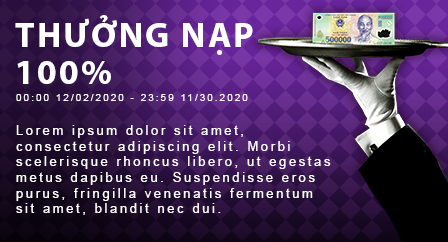
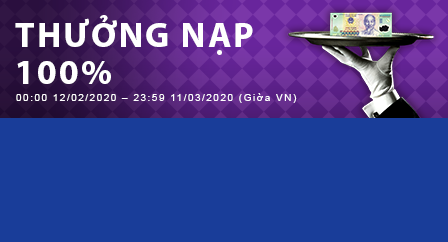
- update

diff --git a/css/style.css b/css/style.css
@@ -781,7 +781,7 @@ h1, h2, h3, h4, h5,
         min-width: 100%; } }
     @media (max-width: 500px) {
       .intro-section p {
-        font-size: 0.98rem !important;
+        font-size: 0.86rem !important;
         min-width: 100px !important;
         max-width: 320px !important; 
         } }
@@ -1399,7 +1399,7 @@ h1, h2, h3, h4, h5,
 .card{
   height: 100%;
   cursor: pointer;
-  
+  position: relative;
 }
 .card:hover {
   transition: all 0.2s ease-out;
@@ -1409,16 +1409,44 @@ h1, h2, h3, h4, h5,
   background-color: white;
 }
 
-.card-title{
-  font-size: 1.7rem;
-  font-weight: 700;
-  color: #352961;
+.card-body {
+  position: absolute;
+  padding-top: 1.15rem !important;
+  text-align: left;
+  padding: 1rem !important;
 }
 
-.sub-card-title{
-  font-size: 1.0rem !important;
-  text-align: center !important;
+.card-title{
+  font-size: 2.1rem;
+  font-weight: 500;
+  color: #ffffff;
+  text-align: left;
 }
+  @media screen and (max-width: 768px){
+    .card-title{
+      font-size: 1.7rem;
+    }
+  }
+  @media screen and (max-width: 500px){
+    .card-title{
+      font-size: 1.4rem;
+    }
+  }
+
+.sub-card-title{
+  font-size: 0.9rem !important;
+  text-align: left !important;
+  color: #fff !important;
+  position: relative;
+  top: -20px;
+}
+    @media screen and (max-width: 500px){
+      .sub-card-title{
+        font-size: 0.58rem !important;
+        top: -25px;
+      }
+    }
+
 
 .card-prom{
   margin-bottom: 20px;
@@ -1426,21 +1454,52 @@ h1, h2, h3, h4, h5,
 
 .card-prom-name{
   display: flex;
-  min-height: 75px;
-  justify-content: center;
-  align-items: center;
+  max-width: 50%;
+}
+    @media screen and (max-width: 1500px){
+      card-prom-name{
+        font-size: 0.58rem !important;
+        top: -25px;
+      }
+    }
+.proms-banner{
+  width: 100%;
 }
 
-.proms-banner{
-  max-width: 100%;
-  max-height: 100%;
-  width: 100%;
-  height: 100%;
-}
 
 .card-text{
-  text-align: center !important;
+  text-align: left !important;
+  color: #fff !important;
+  text-indent: 0px !important;
+  margin-left: 0px !important;
+  position: relative;
+  top: 100px;
 }
+  @media screen and (max-width: 500px){
+    .card-text{
+      font-size: 0.58rem !important;
+      top: 25px;
+    }
+  }
+  @media screen and (max-width: 768px){
+    .card-text{
+      font-size: 0.98rem !important;
+      top: 85px;
+    }
+  }
+  @media screen and (min-width:1500px)  and (max-width:1700px){
+    .card-text{
+      font-size: 0.98rem !important;
+      top: 80px;
+    }
+  }
+  @media screen and (min-width:1200px)  and (max-width:1500px){
+    .card-text{
+      font-size: 0.78rem !important;
+      top: 75px;
+    }
+  }
+
 
 .proms-list-container{
   margin-top: 50px;

diff --git a/danh-sach-khuyen-mai.html b/danh-sach-khuyen-mai.html
@@ -96,29 +96,29 @@
             <div class="row">
               <div class="col-sm-8 col-md-8 col-lg-8 col-xl-6 card-prom" onClick="parent.location='thuong-nap.html'">
                 <div class="card h-100">
-                  <!-- <div class="card-body">
-                    <div class="card-prom-name">
-                      <h5 class="card-title">THƯỞNG NGAY 100%- TỐI ĐA 1 TRIỆU VND</h5>
-                    </div>
-                    <p class="sub-card-title"> Từ 00:00 12/02/2020 – 23:59 11/03/2020 (Giờ VN)</p>
-                    <p class="card-text">With supporting text below as a natural lead-in to additional content.With
-                      supporting text below as a natural lead-in to additional content.</p>
-                  </div> -->
                   <img class="proms-banner" src="./images/thuong_nap_banner.png" />
+                  <div class="card-body">
+                    <!-- <div class="card-prom-name">
+                      <h5 class="card-title">THƯỞNG NGAY 100%</h5>
+                    </div>
+                    <a class="sub-card-title"> Từ 00:00 12/02/2020 – 23:59 11/03/2020 (Giờ VN)</a> -->
+                    <p class="card-text">With supporting text below as a natural lead-in to additional content.With
+                      supporting text below as a natural lead-inl</p>
+                  </div>
                 </div>
               </div>
               <div class="col-sm-8 col-md-8 col-lg-8 col-xl-6 card-prom" onClick="parent.location='hoan-tra.html'">
                 <div class="card h-100">
-                  <!-- <div class="card-body">
-                    <div class=" card-prom-name">
+                  <img class="proms-banner" src="./images/hoan_tra_banner.png" />
+                  <div class="card-body">
+                    <!-- <div class=" card-prom-name">
                       <h5 class="card-title">
-                        HOÀN TRẢ CỰC SỐC -0.75%
+                       TƯNG BỪNG KHAI TRƯƠNG
                       </h5>
                     </div>
-                    <p class="sub-card-title"> Từ 00:00 12/02/2020 - 23:59 11/03/2020 (Giờ VN)</p>
+                    <a class="sub-card-title"> Từ 00:00 12/02/2020 - 23:59 11/03/2020 (Giờ VN)</a> -->
                     <p class="card-text">With supporting text below as a natural lead-in to additional content.</p>
-                  </div> -->
-                  <img class="proms-banner" src="./images/hoan_tra_banner.png" />
+                  </div>
                 </div>
               </div>
             </div>
